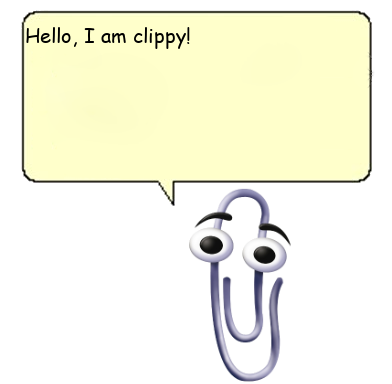
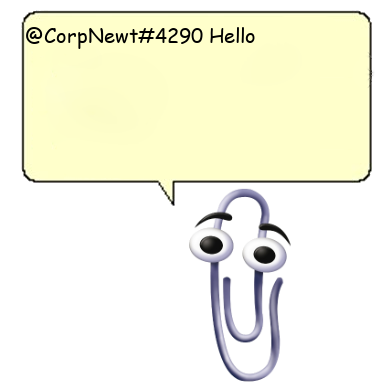
Message sanitizing with Clippy

Changed region(s): [[0.0612, 0.0625, 0.6735, 0.125]]

diff --git a/Cogs/Clippy.py b/Cogs/Clippy.py
@@ -1,6 +1,7 @@
 import discord
 from discord.ext import commands
 from PIL import Image, ImageDraw, ImageFont
+from Cogs import DisplayName
 
 def setup(bot):
     bot.add_cog(Clippy(bot))
@@ -43,6 +44,8 @@ class Clippy:
         image_height = image.size[1]
         image_width = image.size[0]
         draw = ImageDraw.Draw(image)
+
+        text = DisplayName.clean_message(text, bot=self.bot, server=ctx.guild)
 
         font = ImageFont.truetype('fonts/comic.ttf', size=20)
         #340 is the width we want to set the image width to
